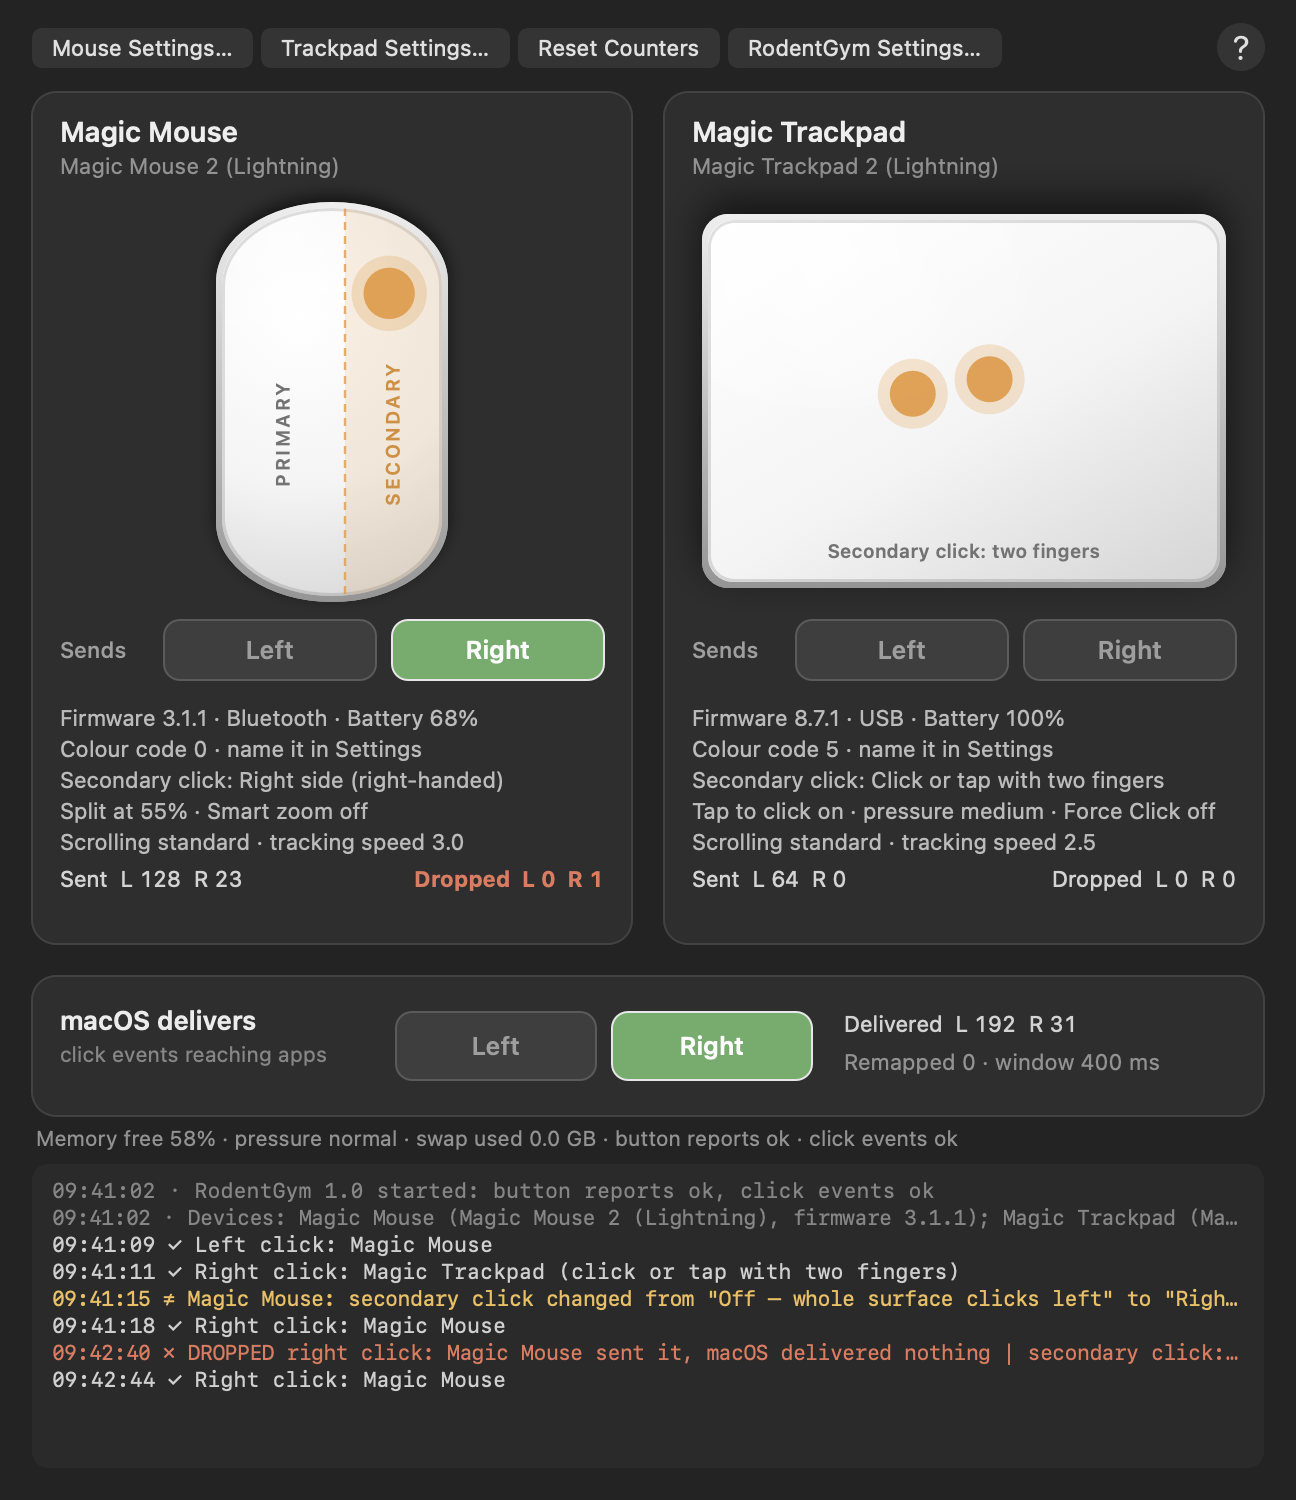
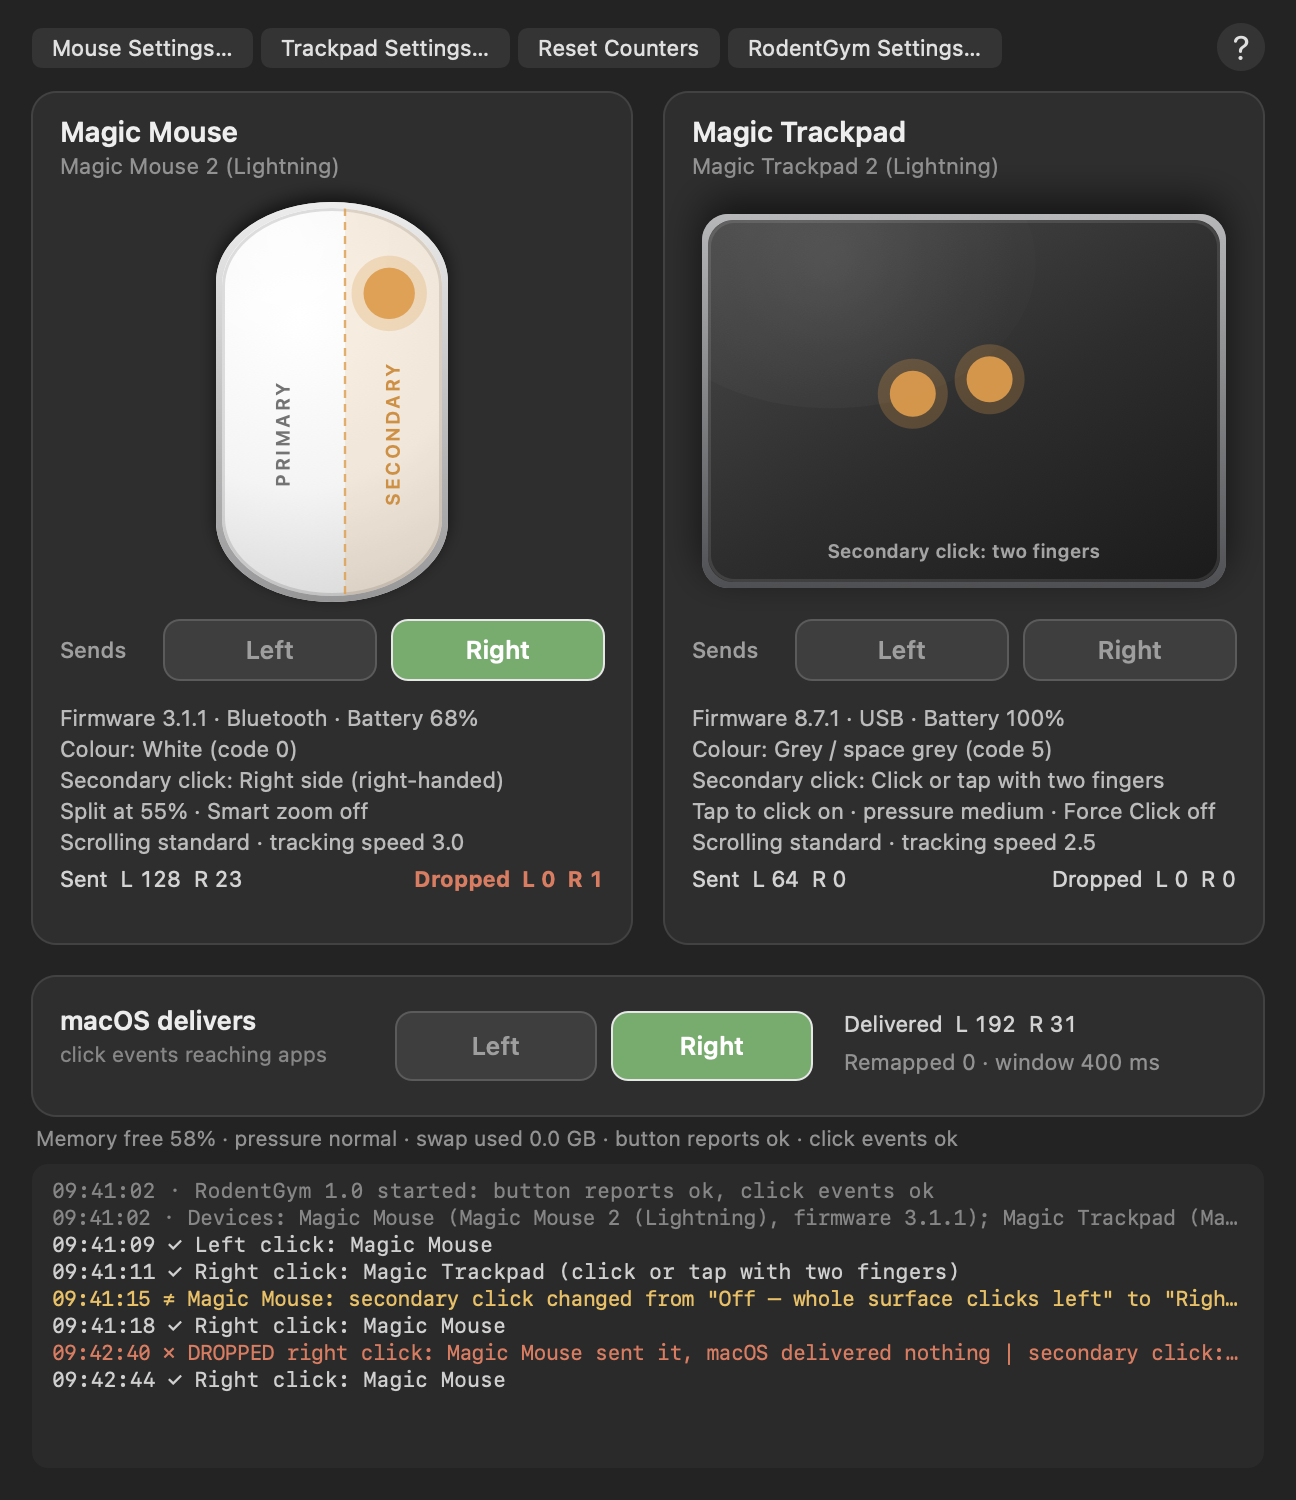
Decode accessory colour codes automatically
Map the IORegistry ColorID to Apple's accessory colour table (the same
values Continuity proximity-pairing uses; macOS CoreUtils carries the
same ordered names). Verified on a white Magic Mouse 2 (0) and a space
grey Magic Trackpad 2 (5). Coloured models get a tinted aluminium edge.
Settings now overrides the automatic finish instead of being required.

Claude-Session: https://claude.ai/code/session_01MkWmR3S2wGsAhoVsYCbJcE

Changed region(s): [[0.5247, 0.1227, 0.9568, 0.3987], [0.0926, 0.4907, 0.3395, 0.5213], [0.5864, 0.4907, 0.8025, 0.5213]]

diff --git a/Resources/Help.html b/Resources/Help.html
@@ -45,7 +45,7 @@
   <li><b>Play a sound when a click is dropped</b> makes drops easy to notice.</li>
   <li><b>Log every click</b> writes successful clicks as well as problems. Turn it off for long sessions.</li>
   <li><b>Drop detection window</b> is how long RodentGym waits for a reported click to arrive before calling it dropped. The default is 400 ms.</li>
-  <li><b>Device colours.</b> Accessories report a numeric colour code, but Apple doesn't publish what the codes mean. Choose the finish once per code, and the drawings match your hardware from then on.</li>
+  <li><b>Device colours.</b> Each accessory reports a colour code, which RodentGym decodes automatically (for example 0 is White, 5 is Grey / space grey, 9 is Space Grey). If a device is drawn in the wrong finish, override it here.</li>
 </ul>
 
 <h2>Shortcuts</h2>
@@ -62,6 +62,7 @@
 <ul>
   <li>Touch data comes from Apple's private MultitouchSupport framework. A future macOS update could change or break it.</li>
   <li>The trackpad corner area is drawn approximately, because Apple doesn't publish its exact size.</li>
+  <li>Colour codes aren't documented by Apple. RodentGym's table matches Apple's Continuity colour codes and has been checked against real devices, but a rare model could be decoded wrongly. Use Settings to override it.</li>
   <li>Devices are detected when connected and disconnected. If one doesn't appear, choose <b>Devices › Rescan Devices</b>.</li>
 </ul>
 </body></html>

diff --git a/Sources/RodentGym.m b/Sources/RodentGym.m
@@ -144,7 +144,40 @@ static NSDictionary<NSString *, NSNumber *> *registryValuesWithKey(NSString *key
 #pragma mark - Device model
 
 typedef NS_ENUM(NSInteger, RGKind) { RGKindMouse, RGKindTrackpad, RGKindBuiltIn };
-typedef NS_ENUM(NSInteger, RGFinish) { RGFinishWhite, RGFinishBlack };
+// How a surface is drawn: a light or dark top, and the colour of the aluminium edge.
+typedef struct { BOOL darkTop; CGFloat rimR, rimG, rimB; } RGStyle;
+static const RGStyle kLightStyle = {NO, 0.86, 0.86, 0.87};
+static const RGStyle kDarkStyle = {YES, 0.42, 0.43, 0.45};
+
+// Apple accessory colour codes, as reported in the IORegistry `ColorID` property. The same table
+// is used in Continuity proximity-pairing adverts (see furiousMAC/continuity, airpods_color_vals),
+// and macOS's CoreUtils carries the same ordered names. Verified: Magic Mouse 2 white = 0,
+// Magic Trackpad 2 space grey = 5.
+typedef struct { int code; __unsafe_unretained NSString *name; RGStyle style; } RGColour;
+static const RGColour kColours[] = {
+    {0,  @"White",      {NO,  0.86, 0.86, 0.87}},
+    {1,  @"Black",      {YES, 0.80, 0.80, 0.82}},   // black surface on silver aluminium
+    {2,  @"Red",        {NO,  0.78, 0.24, 0.26}},
+    {3,  @"Blue",       {NO,  0.30, 0.46, 0.78}},
+    {4,  @"Pink",       {NO,  0.93, 0.64, 0.68}},
+    {5,  @"Grey / space grey", {YES, 0.42, 0.43, 0.45}},   // 2017 space grey Magic Trackpad 2 reports 5
+    {6,  @"Silver",     {NO,  0.86, 0.86, 0.87}},
+    {7,  @"Gold",       {NO,  0.89, 0.79, 0.62}},
+    {8,  @"Rose Gold",  {NO,  0.91, 0.73, 0.69}},
+    {9,  @"Space Grey", {YES, 0.42, 0.43, 0.45}},
+    {10, @"Dark Blue",  {YES, 0.18, 0.25, 0.42}},
+    {11, @"Light Blue", {NO,  0.64, 0.79, 0.91}},
+    {12, @"Yellow",     {NO,  0.95, 0.83, 0.42}},
+};
+
+static const RGColour *colourForCode(int code) {
+    for (size_t i = 0; i < sizeof kColours / sizeof kColours[0]; i++) if (kColours[i].code == code) return &kColours[i];
+    return NULL;
+}
+
+static NSColor *blend(NSColor *c, NSColor *with, CGFloat amount) {
+    return [[c colorUsingColorSpace:NSColorSpace.sRGBColorSpace] blendedColorWithFraction:amount ofColor:with] ?: c;
+}
 
 static NSString *modelName(int productID, RGKind kind) {
     if (kind == RGKindBuiltIn) return @"Built-in trackpad";
@@ -288,8 +321,9 @@ static NSBezierPath *surfacePath(RGKind kind, NSRect r) {
 
 // Renders a device surface lit from the upper left: shadow, aluminium edge, shell or glass, sheen.
 // Works in flipped and unflipped contexts (the window view is flipped, the app icon is not).
-static void drawSurface(RGKind kind, NSRect r, RGFinish finish) {
-    BOOL black = finish == RGFinishBlack;
+static void drawSurface(RGKind kind, NSRect r, RGStyle style) {
+    BOOL black = style.darkTop;
+    NSColor *rimColour = rgb(style.rimR, style.rimG, style.rimB);
     BOOL flipped = NSGraphicsContext.currentContext.isFlipped;
     CGFloat down = flipped ? 1 : -1;   // sign of "towards the bottom of the screen"
     NSBezierPath *base = surfacePath(kind, NSInsetRect(r, -3, -3));
@@ -300,12 +334,13 @@ static void drawSurface(RGKind kind, NSRect r, RGFinish finish) {
     shadow.shadowBlurRadius = MAX(6, r.size.width * 0.08);
     shadow.shadowOffset = NSMakeSize(0, -r.size.width * 0.025);
     [shadow set];
-    [gray(black ? 0.12 : 0.65) setFill];
+    [rimColour setFill];
     [base fill];
     [NSGraphicsContext restoreGraphicsState];
 
-    NSGradient *rim = black ? [[NSGradient alloc] initWithStartingColor:gray(0.36) endingColor:gray(0.10)]
-                            : [[NSGradient alloc] initWithStartingColor:gray(0.93) endingColor:gray(0.56)];
+    // Aluminium edge in the device's colour, lit from above
+    NSGradient *rim = [[NSGradient alloc] initWithStartingColor:blend(rimColour, NSColor.whiteColor, 0.45)
+                                                    endingColor:blend(rimColour, NSColor.blackColor, 0.4)];
     [rim drawInBezierPath:base angle:90 * down];
 
     NSBezierPath *top = surfacePath(kind, r);
@@ -363,7 +398,7 @@ static NSImage *appIcon(CGFloat size) {
             [ring stroke];
         }
         [NSGraphicsContext restoreGraphicsState];
-        drawSurface(RGKindMouse, mouse, RGFinishWhite);
+        drawSurface(RGKindMouse, mouse, kLightStyle);
         CGFloat dot = s * 0.045;
         [[NSColor colorWithSRGBRed:1 green:0.55 blue:0.15 alpha:0.35] setFill];
         [[NSBezierPath bezierPathWithOvalInRect:NSMakeRect(touch.x - dot * 1.8, touch.y - dot * 1.8, dot * 3.6, dot * 3.6)] fill];
@@ -425,7 +460,7 @@ static BOOL writeIconPNG(NSString *path, int px) {
 @property (copy) NSString *snapshotPath;
 @property BOOL demo;
 - (NSArray<RGDevice *> *)visibleDevices;
-- (RGFinish)finishFor:(RGDevice *)d;
+- (RGStyle)styleFor:(RGDevice *)d;
 - (NSString *)colourTextFor:(RGDevice *)d;
 - (double)matchWindow;
 - (void)hidButton:(int)b down:(BOOL)down device:(IOHIDDeviceRef)h;
@@ -509,9 +544,9 @@ static void devicesChangedCallback(void *refcon, io_iterator_t it) {
     NSSize sz = (area.size.width / area.size.height > aspect) ? NSMakeSize(area.size.height * aspect, area.size.height)
                                                               : NSMakeSize(area.size.width, area.size.width / aspect);
     NSRect s = NSMakeRect(round(NSMidX(area) - sz.width / 2), round(NSMidY(area) - sz.height / 2), round(sz.width), round(sz.height));
-    RGFinish finish = [c finishFor:d];
-    drawSurface(d->kind, s, finish);
-    [self drawZones:d surface:s finish:finish];
+    RGStyle style = [c styleFor:d];
+    drawSurface(d->kind, s, style);
+    [self drawZones:d surface:s dark:style.darkTop];
     [self drawTouches:d surface:s];
 
     // What the hardware reports
@@ -542,8 +577,8 @@ static void devicesChangedCallback(void *refcon, io_iterator_t it) {
           drops ? [NSFont monospacedDigitSystemFontOfSize:11 weight:NSFontWeightBold] : mono, drops ? RED : gray(0.82));
 }
 
-- (void)drawZones:(RGDevice *)d surface:(NSRect)s finish:(RGFinish)finish {
-    NSColor *ink = finish == RGFinishBlack ? gray(0.62) : gray(0.42);
+- (void)drawZones:(RGDevice *)d surface:(NSRect)s dark:(BOOL)dark {
+    NSColor *ink = dark ? gray(0.62) : gray(0.42);
     NSColor *accent = rgb(0.92, 0.5, 0.1);
     NSFont *f = [NSFont systemFontOfSize:9.5 weight:NSFontWeightSemibold];
     NSColor *zoneFill = [ORANGE colorWithAlphaComponent:0.16];
@@ -675,14 +710,23 @@ static void devicesChangedCallback(void *refcon, io_iterator_t it) {
     return [NSUserDefaults.standardUserDefaults dictionaryForKey:kFinishes][[@(d->colorID) stringValue]];
 }
 
-- (RGFinish)finishFor:(RGDevice *)d { return [[self finishNameFor:d] isEqualToString:@"black"] ? RGFinishBlack : RGFinishWhite; }
+// The colour code decides the drawing unless the user has overridden it in Settings.
+- (RGStyle)styleFor:(RGDevice *)d {
+    NSString *override = [self finishNameFor:d];
+    if ([override isEqualToString:@"black"]) return kDarkStyle;
+    if ([override isEqualToString:@"white"]) return kLightStyle;
+    const RGColour *c = colourForCode(d->colorID);
+    return c ? c->style : kLightStyle;
+}
 
 - (NSString *)colourTextFor:(RGDevice *)d {
     if (d->colorID < 0) return @"Colour: not reported by the device";
-    NSString *f = [self finishNameFor:d];
-    if ([f isEqualToString:@"black"]) return [NSString stringWithFormat:@"Colour: black / space grey (code %d)", d->colorID];
-    if ([f isEqualToString:@"white"]) return [NSString stringWithFormat:@"Colour: white / silver (code %d)", d->colorID];
-    return [NSString stringWithFormat:@"Colour code %d · name it in Settings", d->colorID];
+    NSString *override = [self finishNameFor:d];
+    if (override) return [NSString stringWithFormat:@"Colour: %@ (set in Settings; code %d)",
+                          [override isEqualToString:@"black"] ? @"black / space grey" : @"white / silver", d->colorID];
+    const RGColour *c = colourForCode(d->colorID);
+    return c ? [NSString stringWithFormat:@"Colour: %@ (code %d)", c->name, d->colorID]
+             : [NSString stringWithFormat:@"Colour code %d · unknown, set it in Settings", d->colorID];
 }
 
 #pragma mark Lifecycle
@@ -1010,7 +1054,7 @@ static void devicesChangedCallback(void *refcon, io_iterator_t it) {
     [stack addArrangedSubview:[self note:@"How long RodentGym waits for macOS to deliver a click the hardware reported before calling it dropped. Raise it if you see false drops while the Mac is very busy."]];
 
     [stack addArrangedSubview:[self heading:@"Device colours"]];
-    [stack addArrangedSubview:[self note:@"Accessories report a colour code, but Apple doesn't publish what the codes mean. Pick the finish for each code so the surfaces are drawn correctly; the choice applies to every device with that code."]];
+    [stack addArrangedSubview:[self note:@"Each accessory reports a colour code, and RodentGym decodes it automatically. If a device is drawn in the wrong finish, override it here. The choice applies to every device with that code."]];
     NSMutableDictionary<NSNumber *, NSMutableArray *> *codes = [NSMutableDictionary dictionary];
     for (RGDevice *d in self.devices) {
         if (d->colorID < 0) continue;
@@ -1024,7 +1068,9 @@ static void devicesChangedCallback(void *refcon, io_iterator_t it) {
         label.lineBreakMode = NSLineBreakByTruncatingTail;
         [label.widthAnchor constraintEqualToConstant:230].active = YES;
         NSPopUpButton *p = [[NSPopUpButton alloc] initWithFrame:NSZeroRect pullsDown:NO];
-        [p addItemsWithTitles:@[@"Not set", @"White / silver", @"Black / space grey"]];
+        const RGColour *known = colourForCode(code.intValue);
+        [p addItemsWithTitles:@[known ? [NSString stringWithFormat:@"Automatic (%@)", known->name] : @"Automatic (unknown)",
+                                @"White / silver", @"Black / space grey"]];
         p.identifier = code.stringValue;
         NSString *cur = finishes[code.stringValue];
         [p selectItemAtIndex:[cur isEqualToString:@"white"] ? 1 : [cur isEqualToString:@"black"] ? 2 : 0];

diff --git a/README.md b/README.md
@@ -14,7 +14,7 @@ For every connected Magic Mouse and Magic Trackpad (and optionally a MacBook's b
 - **Secondary-click zones** from your current settings, including the left/right split, left-handed mode and trackpad corner clicks.
 - **What the hardware sends**: the raw HID button reports, before macOS processes them.
 - **What macOS delivers**: the click events that actually reach apps.
-- **Device details**: model, firmware, connection, battery, colour code, and the settings the driver is applying right now (not just what System Settings shows).
+- **Device details**: model, firmware, connection, battery, colour (decoded from the device's colour code and used for the drawing), and the settings the driver is applying right now (not just what System Settings shows).
 
 When the hardware reports a click and macOS never delivers it, RodentGym flags it as **DROPPED**, plays a sound and logs it with the memory state at that moment. Clicks that arrive as the wrong button are flagged as **remapped**. Changes to secondary-click settings are logged as they happen.
 
@@ -73,7 +73,7 @@ Watching mouse click events doesn't normally need a permission prompt. If click 
 ## Limitations
 
 - Touch data comes from Apple's **private** MultitouchSupport framework, which isn't a supported API and could change in any macOS update.
-- Accessories report a numeric colour code, but Apple doesn't publish the mapping. Choose the finish for each code once in Settings.
+- Colour comes from the `ColorID` each accessory reports. Apple doesn't document it, but the values match the colour table in Apple's Continuity proximity-pairing messages ([furiousMAC/continuity](https://github.com/furiousMAC/continuity)): 0 White, 1 Black, 2 Red, 3 Blue, 4 Pink, 5 Grey, 6 Silver, 7 Gold, 8 Rose Gold, 9 Space Grey, 10 Dark Blue, 11 Light Blue, 12 Yellow. This has been confirmed on a white Magic Mouse 2 (0) and a space grey Magic Trackpad 2 (5). If a device is drawn in the wrong finish, override it in Settings, and please open an issue with the model and code.
 - The trackpad corner area for secondary clicks is drawn approximately.
 - Model names are known for the Lightning-era Magic Mouse 2 and Magic Trackpad 2 and the first generation. Other models show their product ID.
 
